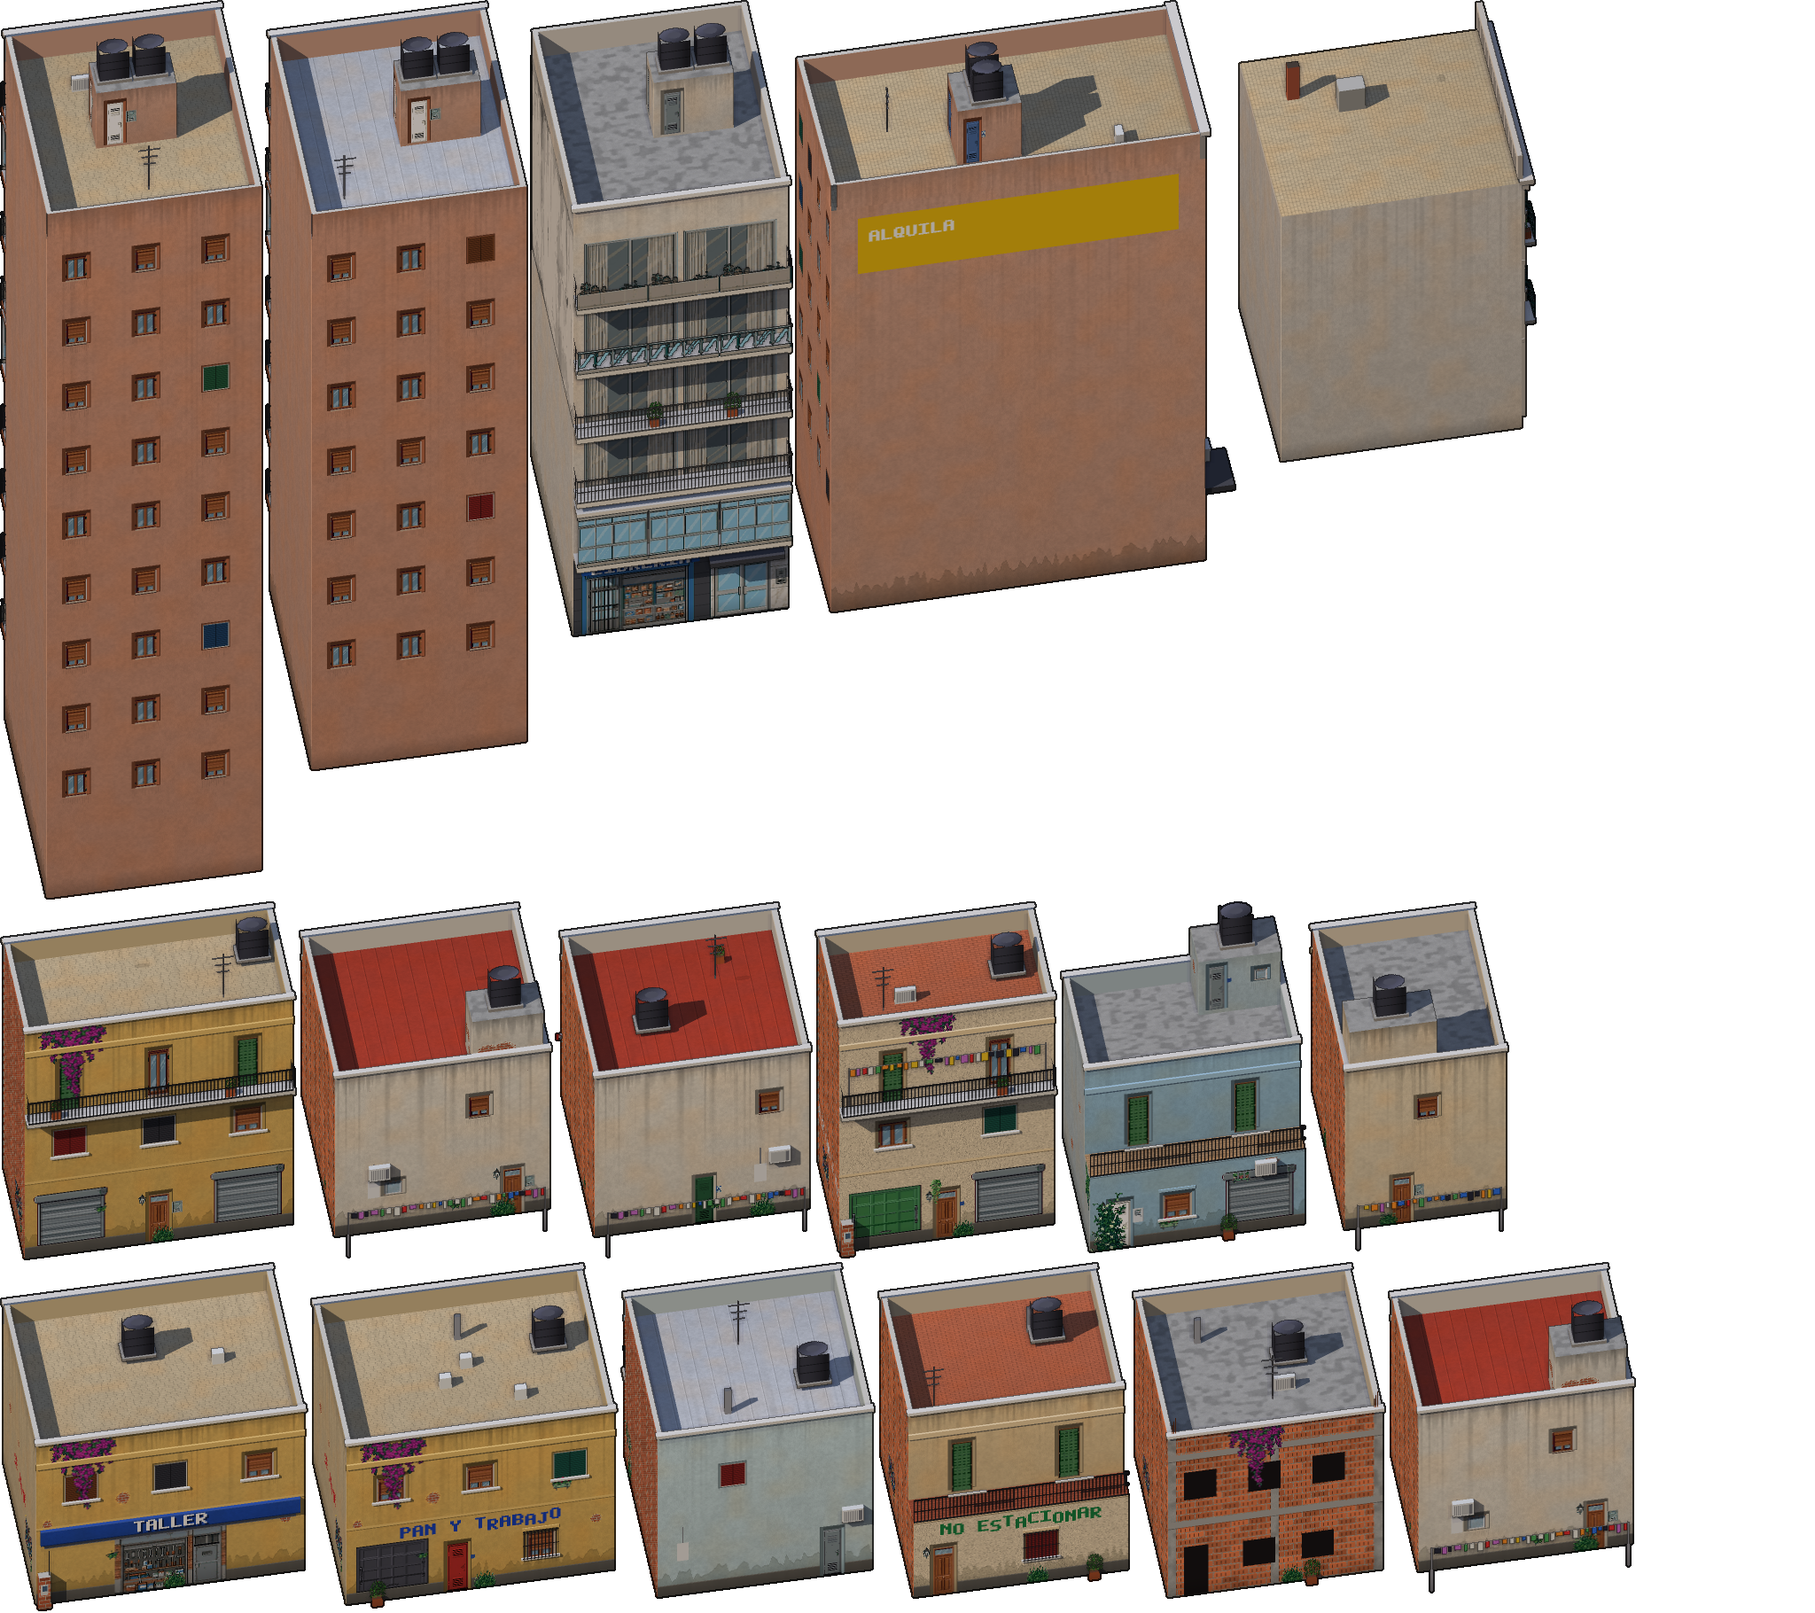
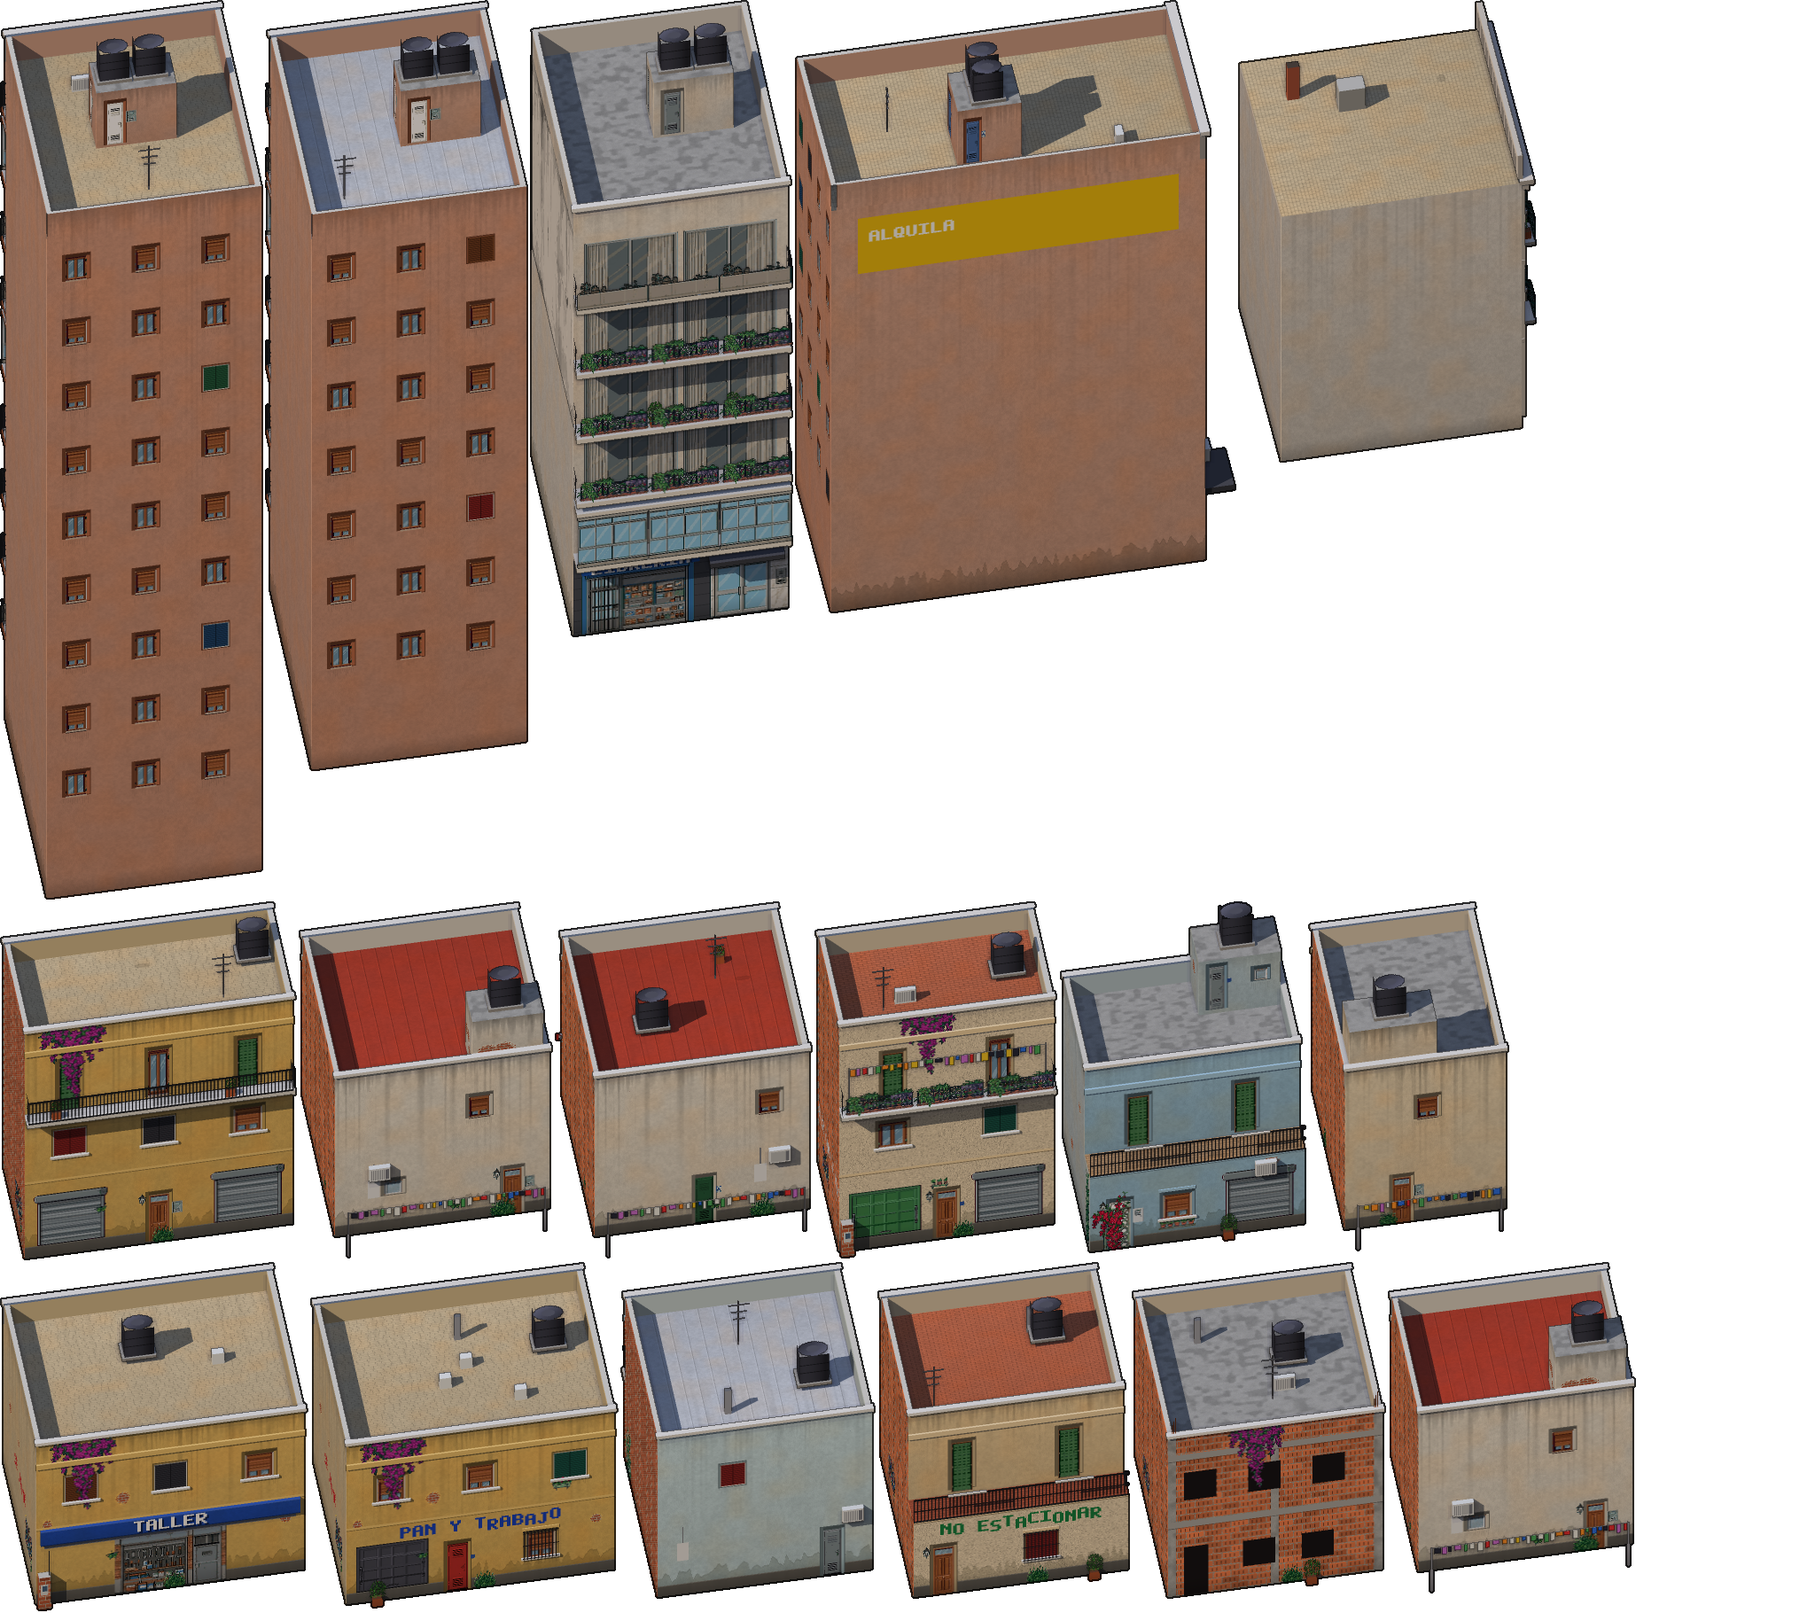
Barrio con las plantas nuevas en las fachadas
Claude-Session: https://claude.ai/code/session_015eL21ADLwrYXVptdMb8b8s

Changed region(s): [[0.3125, 0.1846, 0.4375, 0.3077], [0.4688, 0.6462, 0.5938, 0.7077], [0.5938, 0.7385, 0.625, 0.7692]]

diff --git a/barrio/meta.js b/barrio/meta.js
@@ -1,2 +1,2 @@
 // generado por el editor de barrios — no editar a mano
-export const META = {"atlas":true,"formato":1,"escalaCasas":0.6,"editor":"editor de barrios · Conurbano","fecha":"2026-11-04T01:40:01.837Z","seed":385919651,"knobs":{"mapW":480,"mapH":340,"margen":45,"loteos":15,"desorden":34,"diagonal":0.2,"avenidas":3,"villasMax":2,"umbralVilla":0.3,"zonaRiqueza":180,"contraste":1.9,"sesgo":0,"calle":7.4,"avenida":16.4,"cantCentral":3.2,"pasaje":5.2,"pasillo":1.8,"vereda":3.2,"manzana":1,"pasajes":0.25,"adoquines":1,"plazas":1,"tierra":1,"frente":8.66,"fondo":27,"fondoConstr":1,"baldios":1,"variedad":200,"edificios":1,"pb":3.2,"piso":2.9,"desgaste":1,"conGente":1,"conAutos":1,"faroles":1,"arboles":1,"plantas":1.8,"gente":1,"estacionados":1,"transito":1,"destinosAutos":8,"velAutos":1,"personas":2000,"destinos":8,"velGente":1,"radioSim":120,"solAz":230,"solEl":37,"solI":0.66,"ambI":0.56,"ao":1,"sat":1.16,"contorno":0.82,"sombraPiso":0.3,"vmax":70,"acel":4,"freno":8,"agarre":0.9,"agarreMano":0.12,"giro":2.2,"masa":1200,"rozamiento":0.25,"camara":0.12},"MW":570,"MH":430,"MG":45,"WW":11499,"WH":3870,"SF":18,"K":0.16,"SYN":0.5,"CZ":0.8660254037844387,"GC":0.5,"CW":1140,"CH":860,"WG":57,"HG":43,"PW":285,"PH":215,"NS":191,"CELL":12,"PXM":13.5,"pisoPartes":{"cellA":[0,3921600],"cellB":[3921600,3921600],"wealth":[7843200,2451],"noise":[7845652,262144],"segs":[8107796,9168],"pits":[8116964,245100]},"hojasCasas":5,"peatones":8,"nCasas":1239,"nFranjas":9604,"nPiezas":24483,"nArboles":651,"nPiezasArboles":3150,"nProps":4505,"nAutos":346,"nCables":2306,"anclas":{"pz_jacaranda":[0.5,0.93],"pz_palo_borracho":[0.5,0.92],"u_farola_atras":[0.5,0.98],"u_farola":[0.5,0.98],"u_farol_doble_atras":[0.5,0.96],"u_poste_trafo":[0.5,0.97],"u_farola_orn_atras":[0.5,0.96],"u_farola_orn":[0.5,0.96],"u_semaforo_atras":[0.49,0.96],"u_semaforo":[0.49,0.95],"pz_calesita":[0.5,0.81],"u_kiosco":[0.5,0.78],"parrilla":[0.5,0.82],"pz_monumento":[0.49,0.84],"plm_banano":[0.5,0.89],"pz_tobogan":[0.5,0.96],"parrilla_b":[0.5,0.91],"u_tanque":[0.5,0.82],"pl_ficus":[0.5,0.92],"b_tendedero":[0.5,0.96],"canasto_2":[0.5,0.86],"canasto_0":[0.5,0.86],"pl_gomero":[0.5,0.89],"pl_limonero":[0.49,0.92],"u_contenedor_atras":[0.5,0.79],"plm_santarita":[0.49,0.92],"u_parada_atras":[0.49,0.95],"u_contenedor":[0.5,0.79],"canasto_1":[0.5,0.85],"plm_yuca":[0.5,0.92],"u_parada":[0.5,0.95],"u_contenedor_b_atras":[0.5,0.79],"chapas":[0.5,0.9],"u_contenedor_b":[0.5,0.79],"plm_cortadera":[0.5,0.84],"k_gauchito":[0.5,0.89],"k_heladera":[0.49,0.92],"u_campana":[0.5,0.81],"c_volquete":[0.5,0.76],"u_campana_atras":[0.5,0.8],"u_banco":[0.5,0.85],"u_campana_b_atras":[0.5,0.79],"u_banco_atras":[0.5,0.85],"u_campana_b":[0.5,0.8],"c_puesto_frutas":[0.5,0.86],"c_chori":[0.5,0.87],"antena":[0.49,0.92],"u_valla":[0.5,0.82],"cajones":[0.5,0.89],"pl_hibisco":[0.5,0.87],"pl_monstera":[0.5,0.85],"gomas":[0.5,0.77],"pl_palmera":[0.5,0.88],"parrilla_tambor":[0.5,0.74],"silla":[0.5,0.85],"pl_hortensia":[0.5,0.9],"k_cucha":[0.5,0.89],"plm_strelitzia":[0.5,0.84],"b_sombrilla":[0.5,0.94],"plm_rosal":[0.5,0.89],"plm_jazmin":[0.49,0.89],"pz_subibaja":[0.5,0.93],"plm_plumbago":[0.5,0.85],"plm_pindo":[0.5,0.85],"b_jaula":[0.5,0.9],"pl_jaula":[0.5,0.9],"u_cesto_b":[0.5,0.89],"plm_romero":[0.5,0.82],"b_mesa_patio":[0.5,0.78],"pl_cactus":[0.5,0.88],"k_mantero":[0.5,0.93],"k_sillas_pila":[0.5,0.93],"plm_yuyos":[0.5,0.81],"b_mujer_barre":[0.5,0.92],"c_moto":[0.5,0.89],"plm_formio":[0.49,0.88],"yy_seco_alto_b":[0.49,0.89],"pl_cubierta":[0.5,0.73],"k_pizarra_helado":[0.5,0.93],"u_cesto_atras":[0.5,0.88],"pl_calas":[0.5,0.88],"pz_hamacas":[0.5,0.81],"bolsas_0":[0.5,0.86],"bolsas_1":[0.5,0.86],"yy_mostacilla":[0.5,0.89],"plm_agapanto":[0.5,0.87],"plm_tomates":[0.5,0.85],"garrafa":[0.49,0.86],"pl_azalea":[0.5,0.84],"b_chango_vacio":[0.49,0.92],"u_cono":[0.5,0.82],"yy_seco_alto":[0.5,0.88],"plm_lantana":[0.5,0.77],"pl_sansevieria":[0.5,0.86],"pl_botellas":[0.5,0.75],"yy_mostacilla_b":[0.5,0.88],"b_bolsones":[0.5,0.84],"c_mesa_bar":[0.5,0.93],"b_arco":[0.5,0.92],"k_cajones_botellas":[0.49,0.92],"k_cajones_botellas_b":[0.49,0.92],"pz_aparato":[0.49,0.83],"yy_avena":[0.49,0.87],"pz_bebedero":[0.5,0.86],"b_cartel_vende":[0.49,0.91],"pl_balde":[0.5,0.85],"pl_jardinera":[0.5,0.85],"pl_malvon":[0.5,0.85],"pl_boj":[0.5,0.85],"yy_cardo":[0.49,0.87],"yy_ortiga_c":[0.49,0.87],"pl_begonias":[0.5,0.84],"c_bici":[0.5,0.92],"b_pallets":[0.49,0.83],"pl_lavanda":[0.49,0.84],"pl_aloe":[0.49,0.84],"b_tacho_azul":[0.49,0.87],"pz_banco":[0.49,0.91],"pl_helecho":[0.49,0.84],"pz_banco_atras":[0.5,0.9],"c_hidrante":[0.49,0.92],"pl_potus":[0.5,0.83],"pl_clivia":[0.49,0.83],"k_pelopincho":[0.5,0.9],"k_tele":[0.49,0.9],"pl_coleo":[0.49,0.82],"b_autito":[0.5,0.89],"pz_pingpong":[0.5,0.72],"pl_suculentas":[0.5,0.83],"yy_cola_zorro":[0.49,0.83],"yy_llanten":[0.49,0.83],"pz_cantero":[0.5,0.9],"yy_ortiga":[0.49,0.83],"yy_ortiga_b":[0.5,0.83],"yy_diente_leon_b":[0.49,0.83],"c_palomas":[0.49,0.89],"b_perro_bebe":[0.5,0.88],"yy_diente_leon":[0.5,0.8],"yy_gramilla":[0.49,0.79],"pz_ajedrez":[0.49,0.87],"yy_pasto_seco":[0.5,0.78],"cartel":[0.52,0.92],"yy_grieta":[0.5,0.75],"c_gato":[0.48,0.85],"yy_brotes":[0.49,0.73],"yy_musgo":[0.5,0.84],"yy_trebol":[0.5,0.83],"c_perro_duerme":[0.5,0.83],"b_pelota":[0.5,0.76],"pileta":[0.5,0.58],"sh_tree":[0.5,0.5],"pizarra_2":[0.5,0.8],"pizarra_1":[0.5,0.8],"sh_car_h":[0.5,0.5],"sh_small":[0.5,0.5],"sh_person":[0.5,0.5],"sh_pole":[0.5,0.5]},"escalas":{"pz_jacaranda":0.3613,"pz_palo_borracho":0.379,"u_farola_atras":0.4188,"u_farola":0.4219,"u_farol_doble_atras":0.2216,"u_poste_trafo":0.364,"u_farola_orn_atras":0.2028,"u_farola_orn":0.2041,"u_semaforo_atras":0.1864,"u_semaforo":0.188,"pz_calesita":0.4793,"u_kiosco":0.2304,"parrilla":0.1635,"pz_monumento":0.5012,"plm_banano":0.1834,"pz_tobogan":0.3576,"parrilla_b":0.3733,"u_tanque":0.173,"pl_ficus":0.184,"b_tendedero":0.3706,"canasto_2":0.1635,"canasto_0":0.1635,"pl_gomero":0.1834,"pl_limonero":0.184,"u_contenedor_atras":0.2275,"plm_santarita":0.184,"u_parada_atras":0.2275,"u_contenedor":0.2304,"canasto_1":0.1635,"plm_yuca":0.184,"u_parada":0.2304,"u_contenedor_b_atras":0.2275,"chapas":0.173,"u_contenedor_b":0.2304,"plm_cortadera":0.1834,"k_gauchito":0.3733,"k_heladera":0.3733,"u_campana":0.2304,"c_volquete":0.4173,"u_campana_atras":0.2275,"u_banco":0.2304,"u_campana_b_atras":0.2275,"u_banco_atras":0.2275,"u_campana_b":0.2304,"c_puesto_frutas":0.4173,"c_chori":0.4173,"antena":0.173,"u_valla":0.1635,"cajones":0.173,"pl_hibisco":0.1834,"pl_monstera":0.1834,"gomas":0.173,"pl_palmera":0.1834,"parrilla_tambor":0.173,"silla":0.173,"pl_hortensia":0.184,"k_cucha":0.3733,"plm_strelitzia":0.1834,"b_sombrilla":0.3706,"plm_rosal":0.184,"plm_jazmin":0.184,"pz_subibaja":0.3293,"plm_plumbago":0.1834,"plm_pindo":0.3821,"b_jaula":0.2672,"pl_jaula":0.2672,"u_cesto_b":0.2304,"plm_romero":0.1783,"b_mesa_patio":0.3706,"pl_cactus":0.184,"k_mantero":0.3733,"k_sillas_pila":0.3733,"plm_yuyos":0.1776,"b_mujer_barre":0.3706,"c_moto":0.4173,"plm_formio":0.184,"yy_seco_alto_b":0.2255,"pl_cubierta":0.1431,"k_pizarra_helado":0.3733,"u_cesto_atras":0.2275,"pl_calas":0.184,"pz_hamacas":0.4872,"bolsas_0":0.1635,"bolsas_1":0.1635,"yy_mostacilla":0.2255,"plm_agapanto":0.184,"plm_tomates":0.1895,"garrafa":0.173,"pl_azalea":0.1834,"b_chango_vacio":0.3706,"u_cono":0.1635,"yy_seco_alto":0.2255,"plm_lantana":0.1891,"pl_sansevieria":0.184,"pl_botellas":0.1134,"yy_mostacilla_b":0.2255,"b_bolsones":0.3706,"c_mesa_bar":0.4173,"b_arco":0.3706,"k_cajones_botellas":0.3733,"k_cajones_botellas_b":0.3733,"pz_aparato":0.3835,"yy_avena":0.2255,"pz_bebedero":0.247,"b_cartel_vende":0.3706,"pl_balde":0.184,"pl_jardinera":0.1834,"pl_malvon":0.184,"pl_boj":0.184,"yy_cardo":0.2255,"yy_ortiga_c":0.2255,"pl_begonias":0.1834,"c_bici":0.4173,"b_pallets":0.3706,"pl_lavanda":0.184,"pl_aloe":0.184,"b_tacho_azul":0.3706,"pz_banco":0.358,"pl_helecho":0.184,"pz_banco_atras":0.3465,"c_hidrante":0.4173,"pl_potus":0.184,"pl_clivia":0.184,"k_pelopincho":0.3733,"k_tele":0.3733,"pl_coleo":0.1834,"b_autito":0.3706,"pz_pingpong":0.4934,"pl_suculentas":0.1834,"yy_cola_zorro":0.2255,"yy_llanten":0.2255,"pz_cantero":0.4663,"yy_ortiga":0.2255,"yy_ortiga_b":0.2255,"yy_diente_leon_b":0.2255,"c_palomas":0.4173,"b_perro_bebe":0.3706,"yy_diente_leon":0.2255,"yy_gramilla":0.2255,"pz_ajedrez":0.4349,"yy_pasto_seco":0.2255,"yy_grieta":0.111,"c_gato":0.4173,"yy_brotes":0.2255,"yy_musgo":0.2255,"yy_trebol":0.2255,"c_perro_duerme":0.4173,"b_pelota":0.3706}};
+export const META = {"atlas":true,"formato":1,"escalaCasas":0.6,"editor":"editor de barrios · Conurbano","fecha":"2026-11-04T01:46:09.272Z","seed":385919651,"knobs":{"mapW":480,"mapH":340,"margen":45,"loteos":15,"desorden":34,"diagonal":0.2,"avenidas":3,"villasMax":2,"umbralVilla":0.3,"zonaRiqueza":180,"contraste":1.9,"sesgo":0,"calle":7.4,"avenida":16.4,"cantCentral":3.2,"pasaje":5.2,"pasillo":1.8,"vereda":3.2,"manzana":1,"pasajes":0.25,"adoquines":1,"plazas":1,"tierra":1,"frente":8.66,"fondo":27,"fondoConstr":1,"baldios":1,"variedad":200,"edificios":1,"pb":3.2,"piso":2.9,"desgaste":1,"conGente":1,"conAutos":1,"faroles":1,"arboles":1,"plantas":1.8,"gente":1,"estacionados":1,"transito":1,"destinosAutos":8,"velAutos":1,"personas":2000,"destinos":8,"velGente":1,"radioSim":120,"solAz":230,"solEl":37,"solI":0.66,"ambI":0.56,"ao":1,"sat":1.16,"contorno":0.82,"sombraPiso":0.3,"vmax":70,"acel":4,"freno":8,"agarre":0.9,"agarreMano":0.12,"giro":2.2,"masa":1200,"rozamiento":0.25,"camara":0.12},"MW":570,"MH":430,"MG":45,"WW":11499,"WH":3870,"SF":18,"K":0.16,"SYN":0.5,"CZ":0.8660254037844387,"GC":0.5,"CW":1140,"CH":860,"WG":57,"HG":43,"PW":285,"PH":215,"NS":191,"CELL":12,"PXM":13.5,"pisoPartes":{"cellA":[0,3921600],"cellB":[3921600,3921600],"wealth":[7843200,2451],"noise":[7845652,262144],"segs":[8107796,9168],"pits":[8116964,245100]},"hojasCasas":5,"peatones":8,"nCasas":1239,"nFranjas":9604,"nPiezas":24483,"nArboles":651,"nPiezasArboles":3150,"nProps":4505,"nAutos":346,"nCables":2306,"anclas":{"pz_jacaranda":[0.5,0.93],"pz_palo_borracho":[0.5,0.92],"u_farola_atras":[0.5,0.98],"u_farola":[0.5,0.98],"u_farol_doble_atras":[0.5,0.96],"u_poste_trafo":[0.5,0.97],"u_farola_orn_atras":[0.5,0.96],"u_farola_orn":[0.5,0.96],"u_semaforo_atras":[0.49,0.96],"u_semaforo":[0.49,0.95],"pz_calesita":[0.5,0.81],"u_kiosco":[0.5,0.78],"parrilla":[0.5,0.82],"pz_monumento":[0.49,0.84],"plm_banano":[0.5,0.89],"pz_tobogan":[0.5,0.96],"parrilla_b":[0.5,0.91],"u_tanque":[0.5,0.82],"pl_ficus":[0.5,0.92],"b_tendedero":[0.5,0.96],"canasto_2":[0.5,0.86],"canasto_0":[0.5,0.86],"pl_gomero":[0.5,0.89],"pl_limonero":[0.49,0.92],"u_contenedor_atras":[0.5,0.79],"plm_santarita":[0.49,0.92],"u_parada_atras":[0.49,0.95],"u_contenedor":[0.5,0.79],"canasto_1":[0.5,0.85],"plm_yuca":[0.5,0.92],"u_parada":[0.5,0.95],"u_contenedor_b_atras":[0.5,0.79],"chapas":[0.5,0.9],"u_contenedor_b":[0.5,0.79],"plm_cortadera":[0.5,0.84],"k_gauchito":[0.5,0.89],"k_heladera":[0.49,0.92],"u_campana":[0.5,0.81],"c_volquete":[0.5,0.76],"u_campana_atras":[0.5,0.8],"u_banco":[0.5,0.85],"u_campana_b_atras":[0.5,0.79],"u_banco_atras":[0.5,0.85],"u_campana_b":[0.5,0.8],"c_puesto_frutas":[0.5,0.86],"c_chori":[0.5,0.87],"antena":[0.49,0.92],"u_valla":[0.5,0.82],"cajones":[0.5,0.89],"pl_hibisco":[0.5,0.87],"pl_monstera":[0.5,0.85],"gomas":[0.5,0.77],"pl_palmera":[0.5,0.88],"parrilla_tambor":[0.5,0.74],"silla":[0.5,0.85],"pl_hortensia":[0.5,0.9],"k_cucha":[0.5,0.89],"plm_strelitzia":[0.5,0.84],"b_sombrilla":[0.5,0.94],"plm_rosal":[0.5,0.89],"plm_jazmin":[0.49,0.89],"pz_subibaja":[0.5,0.93],"plm_plumbago":[0.5,0.85],"plm_pindo":[0.5,0.85],"b_jaula":[0.5,0.9],"pl_jaula":[0.5,0.9],"u_cesto_b":[0.5,0.89],"plm_romero":[0.5,0.82],"b_mesa_patio":[0.5,0.78],"pl_cactus":[0.5,0.88],"k_mantero":[0.5,0.93],"k_sillas_pila":[0.5,0.93],"plm_yuyos":[0.5,0.81],"b_mujer_barre":[0.5,0.92],"c_moto":[0.5,0.89],"plm_formio":[0.49,0.88],"yy_seco_alto_b":[0.49,0.89],"pl_cubierta":[0.5,0.73],"k_pizarra_helado":[0.5,0.93],"u_cesto_atras":[0.5,0.88],"pl_calas":[0.5,0.88],"pz_hamacas":[0.5,0.81],"bolsas_0":[0.5,0.86],"bolsas_1":[0.5,0.86],"yy_mostacilla":[0.5,0.89],"plm_agapanto":[0.5,0.87],"plm_tomates":[0.5,0.85],"garrafa":[0.49,0.86],"pl_azalea":[0.5,0.84],"b_chango_vacio":[0.49,0.92],"u_cono":[0.5,0.82],"yy_seco_alto":[0.5,0.88],"plm_lantana":[0.5,0.77],"pl_sansevieria":[0.5,0.86],"pl_botellas":[0.5,0.75],"yy_mostacilla_b":[0.5,0.88],"b_bolsones":[0.5,0.84],"c_mesa_bar":[0.5,0.93],"b_arco":[0.5,0.92],"k_cajones_botellas":[0.49,0.92],"k_cajones_botellas_b":[0.49,0.92],"pz_aparato":[0.49,0.83],"yy_avena":[0.49,0.87],"pz_bebedero":[0.5,0.86],"b_cartel_vende":[0.49,0.91],"pl_balde":[0.5,0.85],"pl_jardinera":[0.5,0.85],"pl_malvon":[0.5,0.85],"pl_boj":[0.5,0.85],"yy_cardo":[0.49,0.87],"yy_ortiga_c":[0.49,0.87],"pl_begonias":[0.5,0.84],"c_bici":[0.5,0.92],"b_pallets":[0.49,0.83],"pl_lavanda":[0.49,0.84],"pl_aloe":[0.49,0.84],"b_tacho_azul":[0.49,0.87],"pz_banco":[0.49,0.91],"pl_helecho":[0.49,0.84],"pz_banco_atras":[0.5,0.9],"c_hidrante":[0.49,0.92],"pl_potus":[0.5,0.83],"pl_clivia":[0.49,0.83],"k_pelopincho":[0.5,0.9],"k_tele":[0.49,0.9],"pl_coleo":[0.49,0.82],"b_autito":[0.5,0.89],"pz_pingpong":[0.5,0.72],"pl_suculentas":[0.5,0.83],"yy_cola_zorro":[0.49,0.83],"yy_llanten":[0.49,0.83],"pz_cantero":[0.5,0.9],"yy_ortiga":[0.49,0.83],"yy_ortiga_b":[0.5,0.83],"yy_diente_leon_b":[0.49,0.83],"c_palomas":[0.49,0.89],"b_perro_bebe":[0.5,0.88],"yy_diente_leon":[0.5,0.8],"yy_gramilla":[0.49,0.79],"pz_ajedrez":[0.49,0.87],"yy_pasto_seco":[0.5,0.78],"cartel":[0.52,0.92],"yy_grieta":[0.5,0.75],"c_gato":[0.48,0.85],"yy_brotes":[0.49,0.73],"yy_musgo":[0.5,0.84],"yy_trebol":[0.5,0.83],"c_perro_duerme":[0.5,0.83],"b_pelota":[0.5,0.76],"pileta":[0.5,0.58],"sh_tree":[0.5,0.5],"pizarra_2":[0.5,0.8],"pizarra_1":[0.5,0.8],"sh_car_h":[0.5,0.5],"sh_small":[0.5,0.5],"sh_person":[0.5,0.5],"sh_pole":[0.5,0.5]},"escalas":{"pz_jacaranda":0.3613,"pz_palo_borracho":0.379,"u_farola_atras":0.4188,"u_farola":0.4219,"u_farol_doble_atras":0.2216,"u_poste_trafo":0.364,"u_farola_orn_atras":0.2028,"u_farola_orn":0.2041,"u_semaforo_atras":0.1864,"u_semaforo":0.188,"pz_calesita":0.4793,"u_kiosco":0.2304,"parrilla":0.1635,"pz_monumento":0.5012,"plm_banano":0.1834,"pz_tobogan":0.3576,"parrilla_b":0.3733,"u_tanque":0.173,"pl_ficus":0.184,"b_tendedero":0.3706,"canasto_2":0.1635,"canasto_0":0.1635,"pl_gomero":0.1834,"pl_limonero":0.184,"u_contenedor_atras":0.2275,"plm_santarita":0.184,"u_parada_atras":0.2275,"u_contenedor":0.2304,"canasto_1":0.1635,"plm_yuca":0.184,"u_parada":0.2304,"u_contenedor_b_atras":0.2275,"chapas":0.173,"u_contenedor_b":0.2304,"plm_cortadera":0.1834,"k_gauchito":0.3733,"k_heladera":0.3733,"u_campana":0.2304,"c_volquete":0.4173,"u_campana_atras":0.2275,"u_banco":0.2304,"u_campana_b_atras":0.2275,"u_banco_atras":0.2275,"u_campana_b":0.2304,"c_puesto_frutas":0.4173,"c_chori":0.4173,"antena":0.173,"u_valla":0.1635,"cajones":0.173,"pl_hibisco":0.1834,"pl_monstera":0.1834,"gomas":0.173,"pl_palmera":0.1834,"parrilla_tambor":0.173,"silla":0.173,"pl_hortensia":0.184,"k_cucha":0.3733,"plm_strelitzia":0.1834,"b_sombrilla":0.3706,"plm_rosal":0.184,"plm_jazmin":0.184,"pz_subibaja":0.3293,"plm_plumbago":0.1834,"plm_pindo":0.3821,"b_jaula":0.2672,"pl_jaula":0.2672,"u_cesto_b":0.2304,"plm_romero":0.1783,"b_mesa_patio":0.3706,"pl_cactus":0.184,"k_mantero":0.3733,"k_sillas_pila":0.3733,"plm_yuyos":0.1776,"b_mujer_barre":0.3706,"c_moto":0.4173,"plm_formio":0.184,"yy_seco_alto_b":0.2255,"pl_cubierta":0.1431,"k_pizarra_helado":0.3733,"u_cesto_atras":0.2275,"pl_calas":0.184,"pz_hamacas":0.4872,"bolsas_0":0.1635,"bolsas_1":0.1635,"yy_mostacilla":0.2255,"plm_agapanto":0.184,"plm_tomates":0.1895,"garrafa":0.173,"pl_azalea":0.1834,"b_chango_vacio":0.3706,"u_cono":0.1635,"yy_seco_alto":0.2255,"plm_lantana":0.1891,"pl_sansevieria":0.184,"pl_botellas":0.1134,"yy_mostacilla_b":0.2255,"b_bolsones":0.3706,"c_mesa_bar":0.4173,"b_arco":0.3706,"k_cajones_botellas":0.3733,"k_cajones_botellas_b":0.3733,"pz_aparato":0.3835,"yy_avena":0.2255,"pz_bebedero":0.247,"b_cartel_vende":0.3706,"pl_balde":0.184,"pl_jardinera":0.1834,"pl_malvon":0.184,"pl_boj":0.184,"yy_cardo":0.2255,"yy_ortiga_c":0.2255,"pl_begonias":0.1834,"c_bici":0.4173,"b_pallets":0.3706,"pl_lavanda":0.184,"pl_aloe":0.184,"b_tacho_azul":0.3706,"pz_banco":0.358,"pl_helecho":0.184,"pz_banco_atras":0.3465,"c_hidrante":0.4173,"pl_potus":0.184,"pl_clivia":0.184,"k_pelopincho":0.3733,"k_tele":0.3733,"pl_coleo":0.1834,"b_autito":0.3706,"pz_pingpong":0.4934,"pl_suculentas":0.1834,"yy_cola_zorro":0.2255,"yy_llanten":0.2255,"pz_cantero":0.4663,"yy_ortiga":0.2255,"yy_ortiga_b":0.2255,"yy_diente_leon_b":0.2255,"c_palomas":0.4173,"b_perro_bebe":0.3706,"yy_diente_leon":0.2255,"yy_gramilla":0.2255,"pz_ajedrez":0.4349,"yy_pasto_seco":0.2255,"yy_grieta":0.111,"c_gato":0.4173,"yy_brotes":0.2255,"yy_musgo":0.2255,"yy_trebol":0.2255,"c_perro_duerme":0.4173,"b_pelota":0.3706}};
